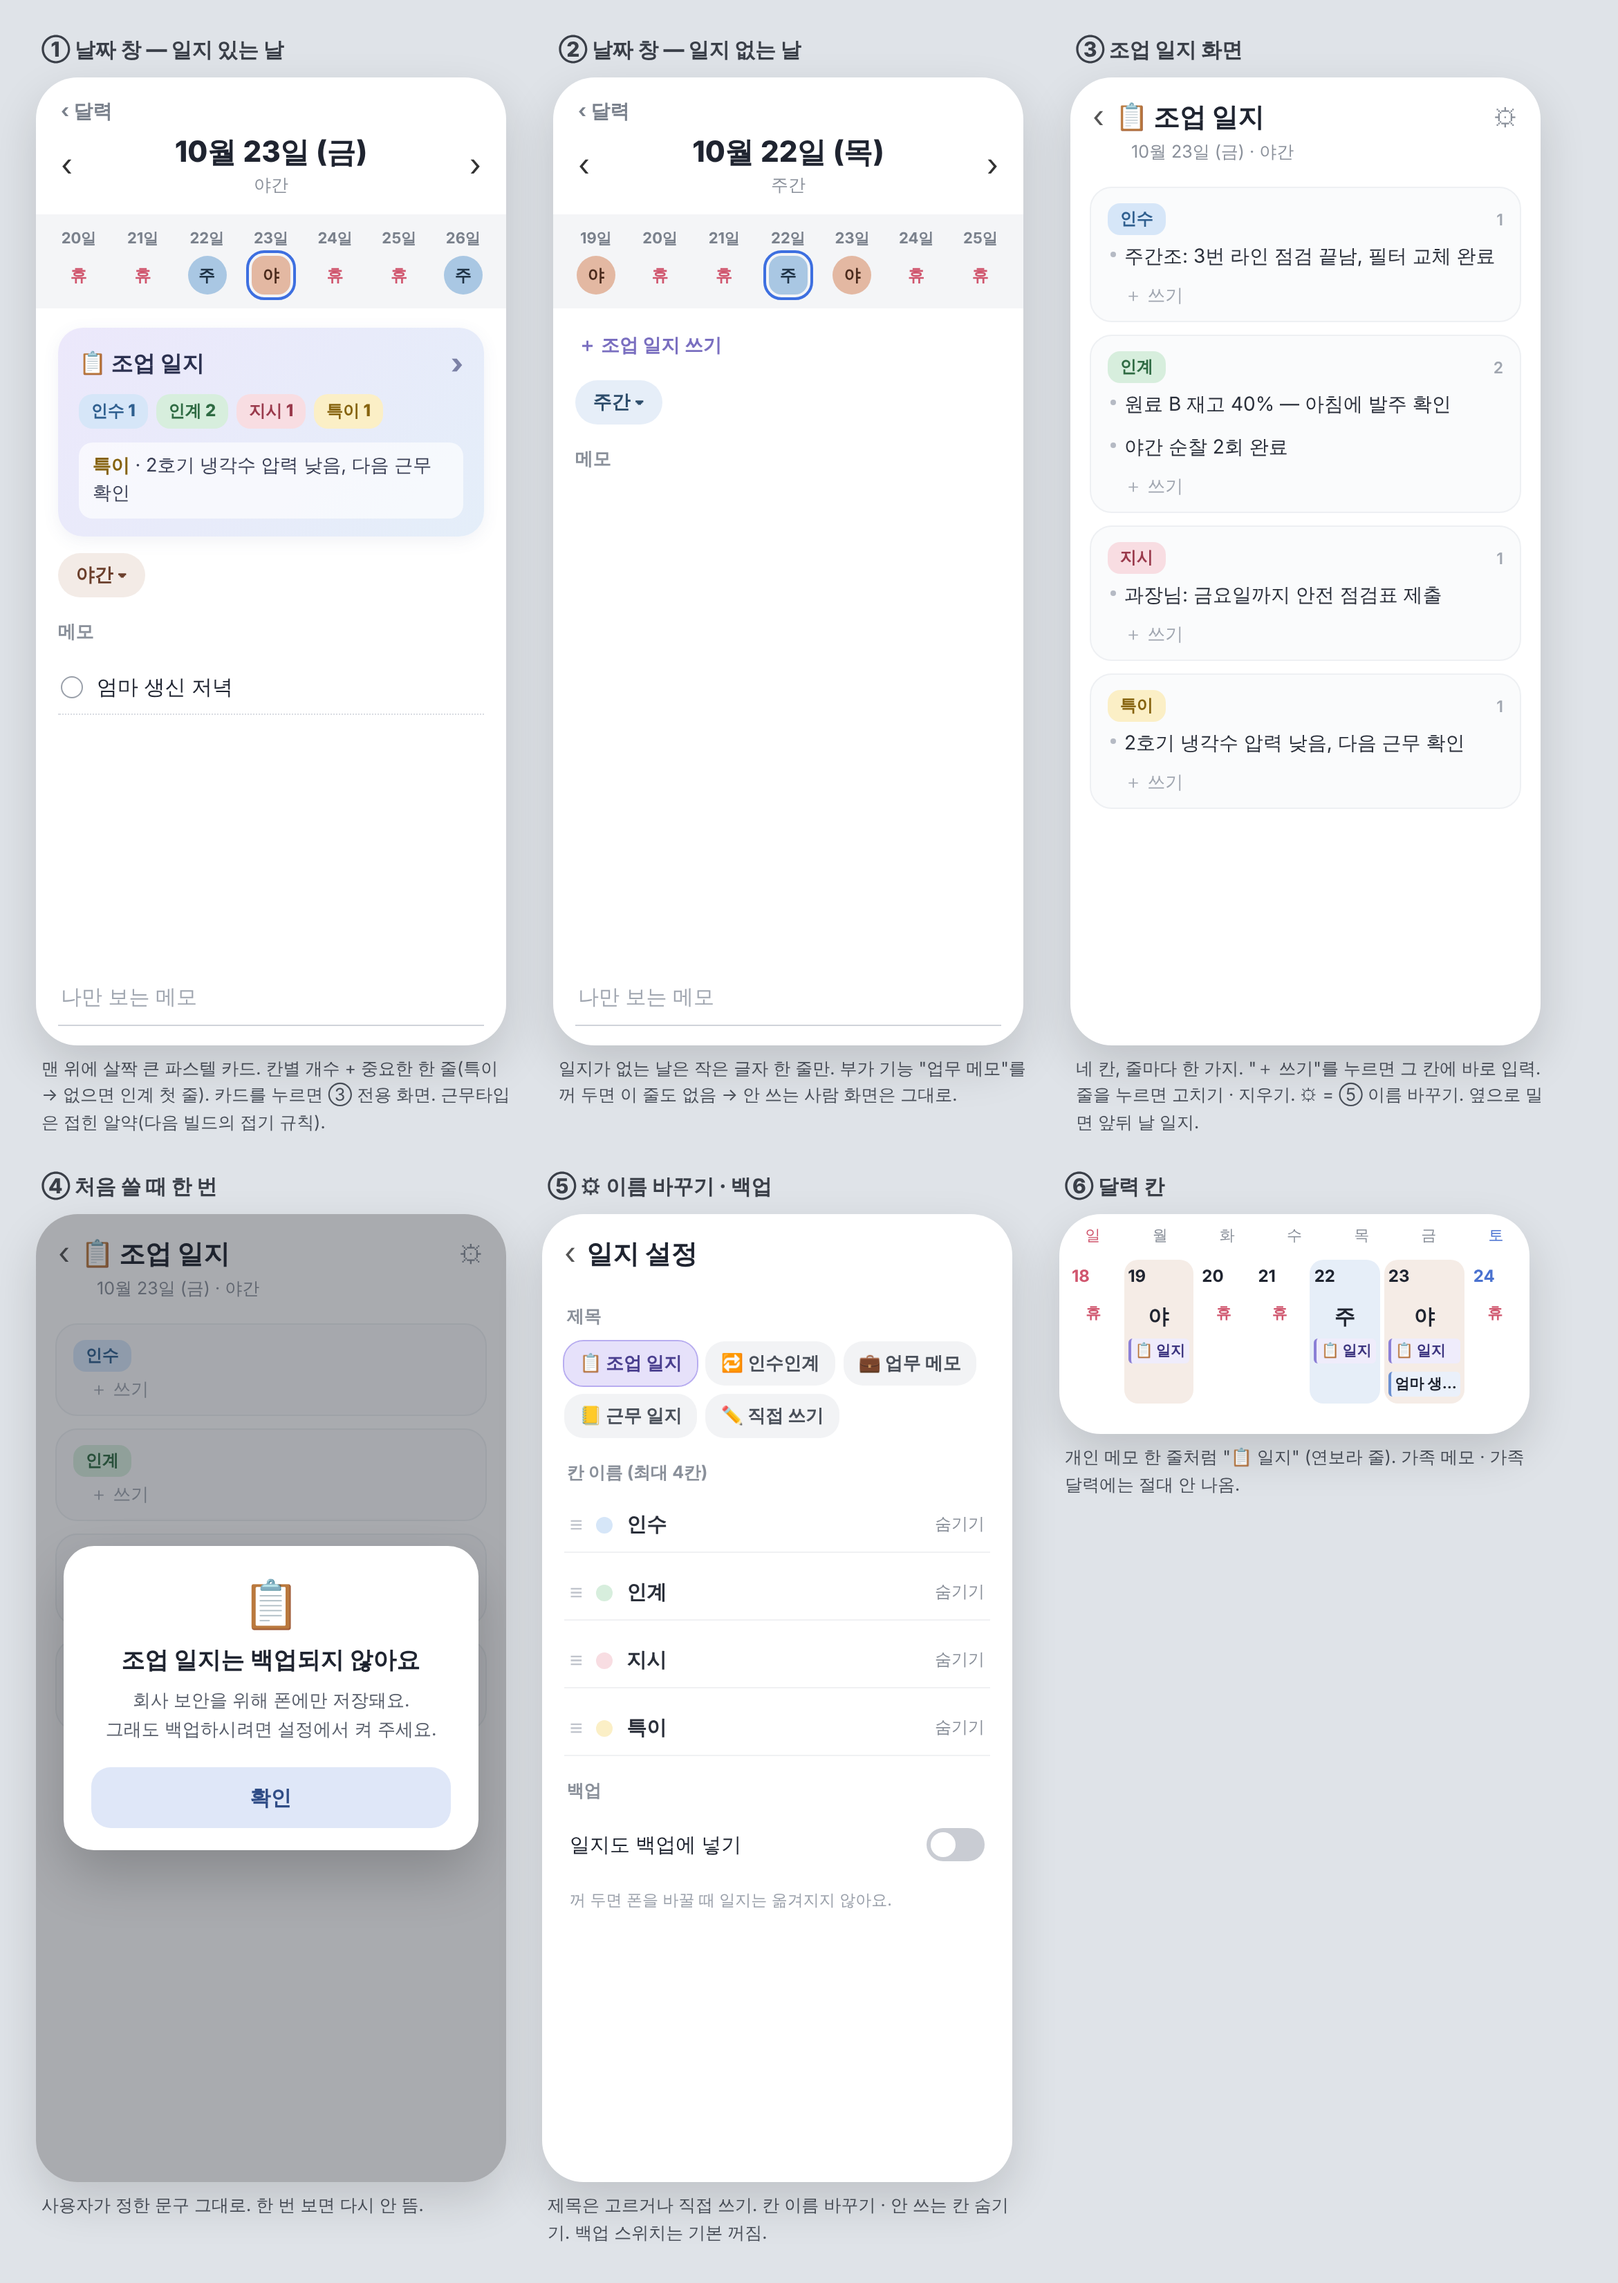
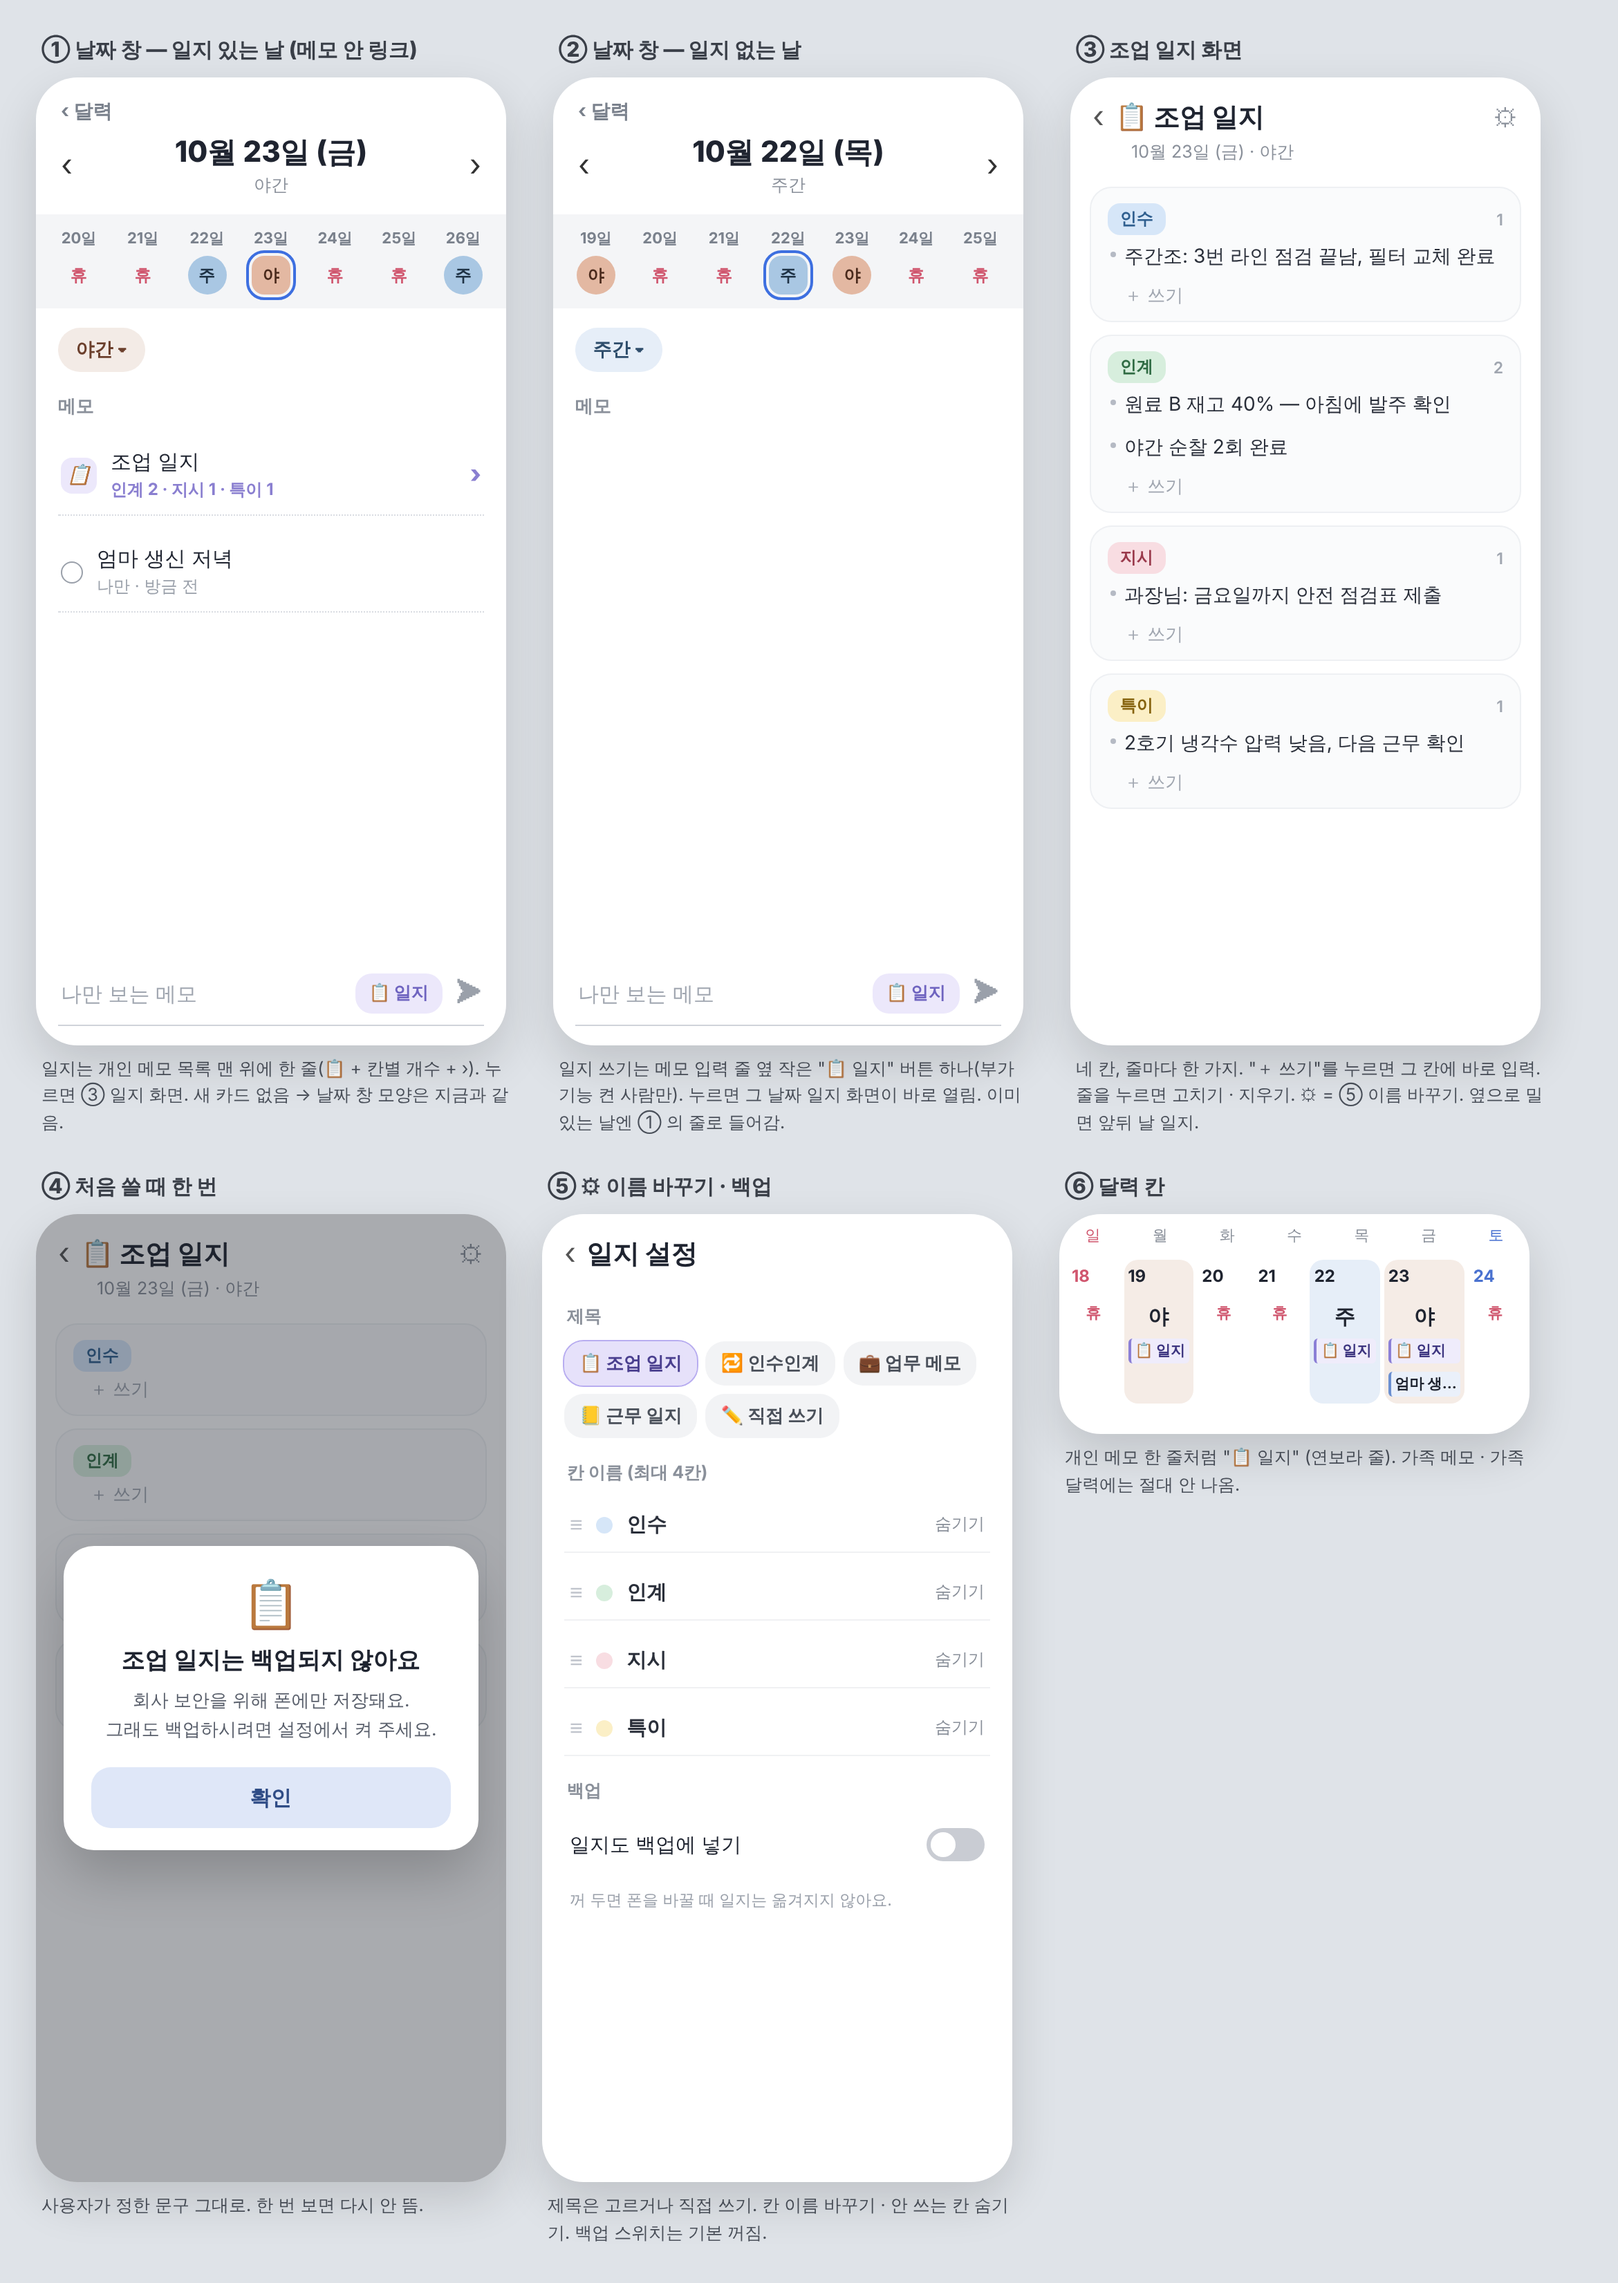
시안: 조업 일지 — 날짜 창은 메모 안 링크로
Claude-Session: https://claude.ai/code/session_01PQgJKpboySN2B3CZdb3yrB

diff --git a/design/work-log/mock.html b/design/work-log/mock.html
@@ -31,6 +31,17 @@ body{font-family:"Noto Sans KR","Noto Sans CJK KR",system-ui,sans-serif;backgrou
 .pv{margin-top:10px;font-size:13.5px;color:#3a3f55;background:rgba(255,255,255,.65);border-radius:10px;padding:8px 10px;line-height:1.45}
 .pv b{color:#86630e}
 .add{font-size:13.5px;color:#7a6fc0;font-weight:700;padding:4px 2px}
+/* 메모 줄 안의 일지 링크 */
+.mrow.wlk{border-bottom:1px dotted #d9dce2}
+.mrow .wi{width:26px;height:26px;border-radius:8px;background:#ece8fb;display:grid;place-items:center;font-size:14px;border:0;flex:none}
+.mrow .mt{flex:1}
+.mrow .mt small{display:block;font-size:12px;color:#8a7fd0;font-weight:700;margin-top:2px}
+.mrow .go{color:#8a7fd0;font-size:18px;font-weight:800}
+.mrow .meta{display:block;font-size:12px;color:#9aa0aa;margin-top:2px}
+.inr{margin-top:auto;display:flex;align-items:center;gap:10px;border-bottom:1.5px solid #cfd3da;padding:8px 2px}
+.inr span{flex:1;color:#a0a6b0;font-size:15px}
+.inr .lg{font-size:12.5px;font-weight:800;color:#6f64c0;background:#ece8fb;border-radius:12px;padding:6px 10px}
+.inr .sd{color:#9aa0aa;font-size:18px}
 /* 근무 알약 (접힌 근무타입) · 메모 */
 .sh{align-self:flex-start;font-size:13.5px;font-weight:800;padding:7px 13px;border-radius:16px;background:#f3ebe6;color:#6b3f2c}
 .sh.d{background:#e6eef8;color:#2e4d6b}
@@ -82,22 +93,20 @@ body{font-family:"Noto Sans KR","Noto Sans CJK KR",system-ui,sans-serif;backgrou
 .wk{font-size:11px;color:#8a909a;text-align:center;padding-top:8px;display:grid;grid-template-columns:repeat(7,1fr)}
 </style></head><body>
 
-<div><div class="cap">① 날짜 창 — 일지 있는 날</div>
+<div><div class="cap">① 날짜 창 — 일지 있는 날 (메모 안 링크)</div>
 <div class="ph">
   <div class="bk">‹ 달력</div>
   <div class="hd"><i>‹</i><div><b>10월 23일 (금)</b><small>야간</small></div><i>›</i></div>
   <div class="strip"><div>20일<span class="r">휴</span></div><div>21일<span class="r">휴</span></div><div>22일<span class="d">주</span></div><div class="on">23일<span class="n">야</span></div><div>24일<span class="r">휴</span></div><div>25일<span class="r">휴</span></div><div>26일<span class="d">주</span></div></div>
   <div class="body">
-    <div class="wl"><div class="t">📋 조업 일지<em>›</em></div>
-      <div class="bdg"><span class="k1">인수 1</span><span class="k2">인계 2</span><span class="k3">지시 1</span><span class="k4">특이 1</span></div>
-      <div class="pv"><b>특이</b> · 2호기 냉각수 압력 낮음, 다음 근무 확인</div></div>
     <div class="sh">야간 ▾</div>
     <div class="mm">메모</div>
-    <div class="mrow"><i></i>엄마 생신 저녁</div>
-    <div class="inp">나만 보는 메모</div>
+    <div class="mrow wlk"><i class="wi">📋</i><div class="mt">조업 일지<small>인계 2 · 지시 1 · 특이 1</small></div><span class="go">›</span></div>
+    <div class="mrow"><i></i><div class="mt">엄마 생신 저녁<span class="meta">나만 · 방금 전</span></div></div>
+    <div class="inr"><span>나만 보는 메모</span><b class="lg">📋 일지</b><b class="sd">➤</b></div>
   </div>
 </div>
-<p class="note">맨 위에 살짝 큰 파스텔 카드. 칸별 개수 + 중요한 한 줄(특이 → 없으면 인계 첫 줄). 카드를 누르면 ③ 전용 화면. 근무타입은 접힌 알약(다음 빌드의 접기 규칙).</p></div>
+<p class="note">일지는 개인 메모 목록 맨 위에 한 줄(📋 + 칸별 개수 + ›). 누르면 ③ 일지 화면. 새 카드 없음 → 날짜 창 모양은 지금과 같음.</p></div>
 
 <div><div class="cap">② 날짜 창 — 일지 없는 날</div>
 <div class="ph">
@@ -105,13 +114,12 @@ body{font-family:"Noto Sans KR","Noto Sans CJK KR",system-ui,sans-serif;backgrou
   <div class="hd"><i>‹</i><div><b>10월 22일 (목)</b><small>주간</small></div><i>›</i></div>
   <div class="strip"><div>19일<span class="n">야</span></div><div>20일<span class="r">휴</span></div><div>21일<span class="r">휴</span></div><div class="on">22일<span class="d">주</span></div><div>23일<span class="n">야</span></div><div>24일<span class="r">휴</span></div><div>25일<span class="r">휴</span></div></div>
   <div class="body">
-    <div class="add">＋ 조업 일지 쓰기</div>
     <div class="sh d">주간 ▾</div>
     <div class="mm">메모</div>
-    <div class="inp">나만 보는 메모</div>
+    <div class="inr"><span>나만 보는 메모</span><b class="lg">📋 일지</b><b class="sd">➤</b></div>
   </div>
 </div>
-<p class="note">일지가 없는 날은 작은 글자 한 줄만. 부가 기능 "업무 메모"를 꺼 두면 이 줄도 없음 → 안 쓰는 사람 화면은 그대로.</p></div>
+<p class="note">일지 쓰기는 메모 입력 줄 옆 작은 "📋 일지" 버튼 하나(부가 기능 켠 사람만). 누르면 그 날짜 일지 화면이 바로 열림. 이미 있는 날엔 ① 의 줄로 들어감.</p></div>
 
 <div><div class="cap">③ 조업 일지 화면</div>
 <div class="ph">

diff --git a/docs/TODO.md b/docs/TODO.md
@@ -1846,4 +1846,5 @@
   - **이름 바꾸기**(사용자): 제목 고르기("조업 일지" · "인수인계" · "업무 메모" · "근무 일지" · 직접 입력) + 아이콘 / 칸 이름 바꾸기 · 안 쓰는 칸 숨기기(최대 4칸, 기본 인수 · 인계 · 지시 · 특이)
   - 이번 1단계 범위(제안): 부가 기능 켜기 · 달력 칸 한 줄 · 날짜 창 카드 · 네 칸 전용 화면 · 이름/칸 바꾸기 · 백업 제외 + 처음 안내창 · 설정 스위치. **검색 · 지난 근무 인계 보기는 2단계**(써 보고)
   - **빌드 나눔(사용자 정함)**: ① 작은 것들 + 포스트잇 가족 공유 → ② 바로 이어서 조업 일지
-  - 시안: design/work-log/mock.png (① 날짜 창 카드 ② 없는 날 한 줄 ③ 네 칸 화면 ④ 처음 안내 ⑤ 이름 바꾸기 · 백업 ⑥ 달력 칸) — 확인 대기
+  - **날짜 창은 카드 대신 개인 메모 안 링크로 (사용자 원래 안 · 더 단순)**: 메모 목록 맨 위에 한 줄 "📋 조업 일지 / 인계 2 · 지시 1 · 특이 1 ›" → 누르면 일지 화면. 쓰기 시작은 메모 입력 줄 옆 작은 "📋 일지" 버튼(부가 기능 켠 사람만) · 일지 없는 날 "＋ 쓰기" 줄 없음. 위의 "맨 위 큰 파스텔 카드"는 취소
+  - 시안: design/work-log/mock.png (① 메모 안 링크 ② 없는 날(입력 줄 옆 버튼) ③ 네 칸 화면 ④ 처음 안내 ⑤ 이름 바꾸기 · 백업 ⑥ 달력 칸) — 확인 대기
